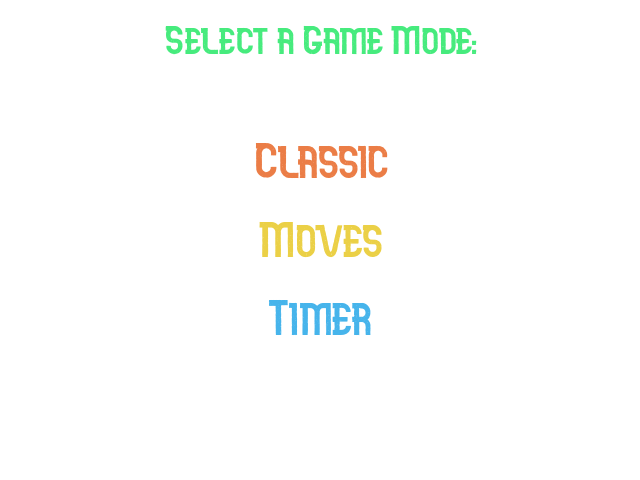
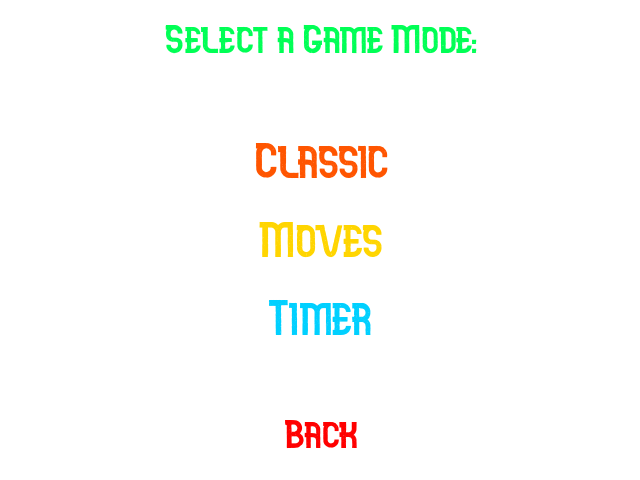
Fixed GameMap, new field in Level, new back option

diff --git a/src/Setup.cpp b/src/Setup.cpp
@@ -70,7 +70,6 @@ void Setup::drawMenu()
     cout<<"Failed to load buffer!\n";
     exit(-1);
   }
-
   al_set_target_bitmap(buffer);
 
   ALLEGRO_EVENT_QUEUE* event_queue = al_create_event_queue();
@@ -166,7 +165,7 @@ void Setup::drawMenu()
 	           {
               al_destroy_event_queue(event_queue);
                
-              Level myLevel(buffer, scaleX, scaleY);
+              Level myLevel(buffer, scaleX, scaleY,0);
               myLevel.run("../levels/level1.txt");
              }
         
@@ -218,21 +217,22 @@ void Setup::drawOptions()
 {
   if(!buffer)
   {
-    cout<<"Fatal error";
+    cout<<"Failed to load buffer!\n";
     exit(-1);
   }
   al_set_target_bitmap(buffer);
 
   ALLEGRO_EVENT_QUEUE *event_queue = al_create_event_queue();
 
-  if(!event_queue){
-    cout<<"Failed to create the event queue";
+  if(!event_queue)
+  {
+    cout<<"Failed to create the event queue!\n";
     exit(-1);
   }
-  ALLEGRO_BITMAP *options = al_load_bitmap("../images/GameMode.png");
 
+  ALLEGRO_BITMAP *options = al_load_bitmap("../images/GameMode.png");
   if(!options){
-    cout<<"Failed to load the options bitmap";
+    cout<<"Failed to load the options bitmap!\n";
     exit(-1);
   }
   al_clear_to_color(BLACK);
@@ -241,15 +241,13 @@ void Setup::drawOptions()
   al_set_target_bitmap(al_get_backbuffer(display));
 
   al_clear_to_color(BLACK);
-
   al_draw_scaled_bitmap(buffer, 0, 0, WIDTH, HEIGHT, scaleX, scaleY, scaleW, scaleH, 0);
-
-  al_flip_display();
-
-  al_set_target_bitmap(buffer);
+  al_flip_display();  
 
   al_register_event_source(event_queue, al_get_mouse_event_source());
   al_register_event_source(event_queue, al_get_keyboard_event_source());
+
+  al_set_target_bitmap(buffer);
 
   bool done = false;
   
@@ -257,8 +255,9 @@ void Setup::drawOptions()
   {
     options = al_load_bitmap("../images/GameMode.png");
 
+    if(!options)
+      exit(-1);
     al_clear_to_color(BLACK);
-
     al_draw_bitmap(options, 0, 0, 0);
 
     ALLEGRO_EVENT ev;
@@ -296,12 +295,69 @@ void Setup::drawOptions()
                  mouseY <= 348)
                     	
 		 	      al_draw_filled_circle(243, 316, 8, AQUA);
-        
-        else
+
+        //sono su "Back"
+        else if (mouseX >= 283 &&
+               mouseX <= 356 &&
+               mouseY >= 421 &&
+               mouseX <= 460)
+
+            al_draw_filled_circle(267, 435, 7, RED);
+
+      else
             al_set_target_bitmap(buffer);
         
         break;
+
+    case ALLEGRO_EVENT_MOUSE_BUTTON_UP: //click mouse
+      
+      //sono su "Classic"
+           if(mouseX >= 243 &&
+              mouseX <= 395 &&
+              mouseY >= 132 &&
+              mouseY <= 188)
+	           {
+              al_destroy_event_queue(event_queue);
+               
+              Level myLevel(buffer, scaleX, scaleY,0);
+              myLevel.run("../levels/level1.txt");
+             }
         
+
+      //sono su "Moves"
+      else if (mouseX >= 243 &&
+               mouseX <= 395 &&
+               mouseY >= 212 &&
+               mouseY <= 268)
+        
+          {
+            al_destroy_event_queue(event_queue);
+               
+              Level myLevel(buffer, scaleX, scaleY,1);
+              myLevel.run("../levels/level1.txt");
+          }
+
+      //sono su "Timer"
+      else if (mouseX >= 259 &&
+               mouseX <= 376 &&
+               mouseY >= 292 &&
+               mouseX <= 348)
+            {
+            al_destroy_event_queue(event_queue);
+               
+              Level myLevel(buffer, scaleX, scaleY,2);
+              myLevel.run("../levels/level1.txt");
+            }
+
+      //sono su "Back"
+      else if (mouseX >= 283 &&
+               mouseX <= 356 &&
+               mouseY >= 421 &&
+               mouseX <= 460)
+				exit(1);
+
+      break;
+
     case ALLEGRO_EVENT_KEY_DOWN:
         if (ev.keyboard.keycode == ALLEGRO_KEY_ESCAPE)
           done = true;

diff --git a/head/GameObj.h b/head/GameObj.h
@@ -8,7 +8,7 @@
 using namespace std;
 
 enum type { BALL, PATH };
-
+//classe astratta; implementare i metodi getType() e draw() nelle classi figlie
 class GameObj
 {
 protected:
@@ -26,49 +26,7 @@ public:
 
   virtual void draw() = 0;
 
-};
-
-class Ball:public GameObj
-{
-protected:
-  unsigned radius;
-public:
-  Ball(const unsigned x, const unsigned y, const unsigned r, const ALLEGRO_COLOR c):
-  GameObj(x, y, c), radius(r){}
-
-  void clear(){color = BLACK;}
-
-  unsigned getX()const{return source_x;}
-  unsigned getY()const{return source_y;}
-  ALLEGRO_COLOR getColor()const{return color;}
-
-  unsigned getRadius()const{return radius;}
-
-  type getType()const{return BALL;}
-
-  void draw()
-  {
-    //disegna una pallina...
-    if(!al_init_primitives_addon())
-      cerr << "failed to initialize Ball!\n";
-    else
-      al_draw_filled_circle(source_x, source_y, radius, color);
-  }
+  //forse andrebbe aggiunto il metodo clear() come in Ball.h
 
 };
-
-class Path:public GameObj
-{
-public:
-  Path(const unsigned x, const unsigned y, const ALLEGRO_COLOR c):
-  GameObj(x, y, c){}
-
-  unsigned getX()const{return source_x;}
-  unsigned getY()const{return source_y;}
-  ALLEGRO_COLOR getColor()const{return color;}
-
-  type getType()const{return PATH;}
-
-};
-
 #endif

diff --git a/src/Ball.cpp b/src/Ball.cpp
@@ -1,0 +1,19 @@
+#include "../head/Ball.h"
+
+Ball::Ball(const unsigned x, const unsigned y, const unsigned r, const ALLEGRO_COLOR c):
+  GameObj(x, y, c), radius(r){}
+
+void Ball::clear(){color = BLACK;}
+
+unsigned Ball::getRadius()const{return radius;}
+
+type Ball::getType()const{return BALL;}
+
+void Ball::draw()
+  {
+    //disegna una pallina...
+    if(!al_init_primitives_addon())
+      cerr << "failed to initialize Ball!\n";
+    else
+      al_draw_filled_circle(source_x, source_y, radius, color);
+  }

diff --git a/head/Ball.h b/head/Ball.h
@@ -1,0 +1,21 @@
+#include "GameObj.h"
+
+class Ball:public GameObj
+{
+protected:
+  unsigned radius;
+public:
+  Ball(const unsigned x, const unsigned y, const unsigned r, const ALLEGRO_COLOR c);
+
+  void clear(); //fa diventare la palline nera come lo sfondo
+  
+  //sono ereditati
+  /*unsigned getX()const{return source_x;}
+  unsigned getY()const{return source_y;}
+  ALLEGRO_COLOR getColor()const{return color;}*/
+
+  unsigned getRadius()const;
+  type getType()const;
+  void draw();
+
+};

diff --git a/head/Path.h b/head/Path.h
@@ -1,0 +1,20 @@
+#include "GameObj.h"
+
+class Path:public GameObj
+{
+public:
+  Path(const unsigned x, const unsigned y, const ALLEGRO_COLOR c);
+
+  //sono ereditati
+  /*unsigned getX()const{return source_x;}
+  unsigned getY()const{return source_y;}
+  ALLEGRO_COLOR getColor()const{return color;}*/
+
+  type getType()const;
+
+   //implementare il metodo draw() in base agli eventi del mouse
+   void draw();
+
+  //forse andrebbe aggiunto un metodo clear()
+
+};

diff --git a/head/GameMap.h b/head/GameMap.h
@@ -2,6 +2,8 @@
 #define GAMEMAP_H
 
 #include "GameObj.h"
+#include "Ball.h"
+#include "Path.h"
 #include <fstream>
 
 //crea una matrice di oggetti (palline o percorsi)
@@ -19,16 +21,12 @@ public:
   GameMap();
   
   void draw(const unsigned &, const unsigned &, const char*);
-
  ~GameMap();
-  
-
   unsigned size()const;
 
   //GameObj* getObj(const unsigned &, const unsigned &);
 
   unsigned getColors()const;
-
   bool isFull()const;
 
 };

diff --git a/head/Level.h b/head/Level.h
@@ -12,12 +12,15 @@ private:
   ALLEGRO_EVENT_QUEUE* event_queue;
   ALLEGRO_BITMAP* buffer;
 
+  //nuovo parametro aggiunto gameMode
+  int gameMode;
+
   int scaleX, scaleY;
 
   const unsigned x = 20, y = 20;
 
 public:
-  Level(ALLEGRO_BITMAP* b, int x, int y);
+  Level(ALLEGRO_BITMAP* b, int x, int y, int mode);
   void run(const char*);
   ~Level();
 

diff --git a/src/Level.cpp b/src/Level.cpp
@@ -1,7 +1,7 @@
 #include "../head/Level.h"
 
-Level::Level(ALLEGRO_BITMAP* b, int x, int y):
-timer(NULL), event_queue(NULL), buffer(b), scaleX(x), scaleY(y)
+Level::Level(ALLEGRO_BITMAP* b, int x, int y, int mode):
+timer(NULL), event_queue(NULL), buffer(b), scaleX(x), scaleY(y), gameMode(mode)
 {
     timer = al_create_timer(1.0/FPS);
     if(!timer)

diff --git a/src/Path.cpp b/src/Path.cpp
@@ -1,0 +1,8 @@
+#include "../head/Path.h"
+
+Path::Path(const unsigned x, const unsigned y, const ALLEGRO_COLOR c):
+  GameObj(x, y, c){}
+  
+type Path::getType()const{return PATH;}
+
+void Path::draw(){return;}

diff --git a/README.md b/README.md
@@ -14,6 +14,12 @@ g++ *.cpp -lallegro -lallegro_image -lallegro_primitives -g
 Quit game with **Escape** key.
 
 ## History:
+#### 23-03-19:
+- Fixed GameMode.png with a new option 'Back'.
+- Added a Back botton in drawOptions().
+- Added an integer gameMode field in Level. 0 means Classic; 1 means Moves mode; 2 means Timer mode.
+- Fixed the abstract class GameObj
+- Added class Ball and Path with implemented abstract methods eredited from GameObj.
 #### 22-03-19:
 - GraphicManager is now Setup.
 - Removed Menu class.
